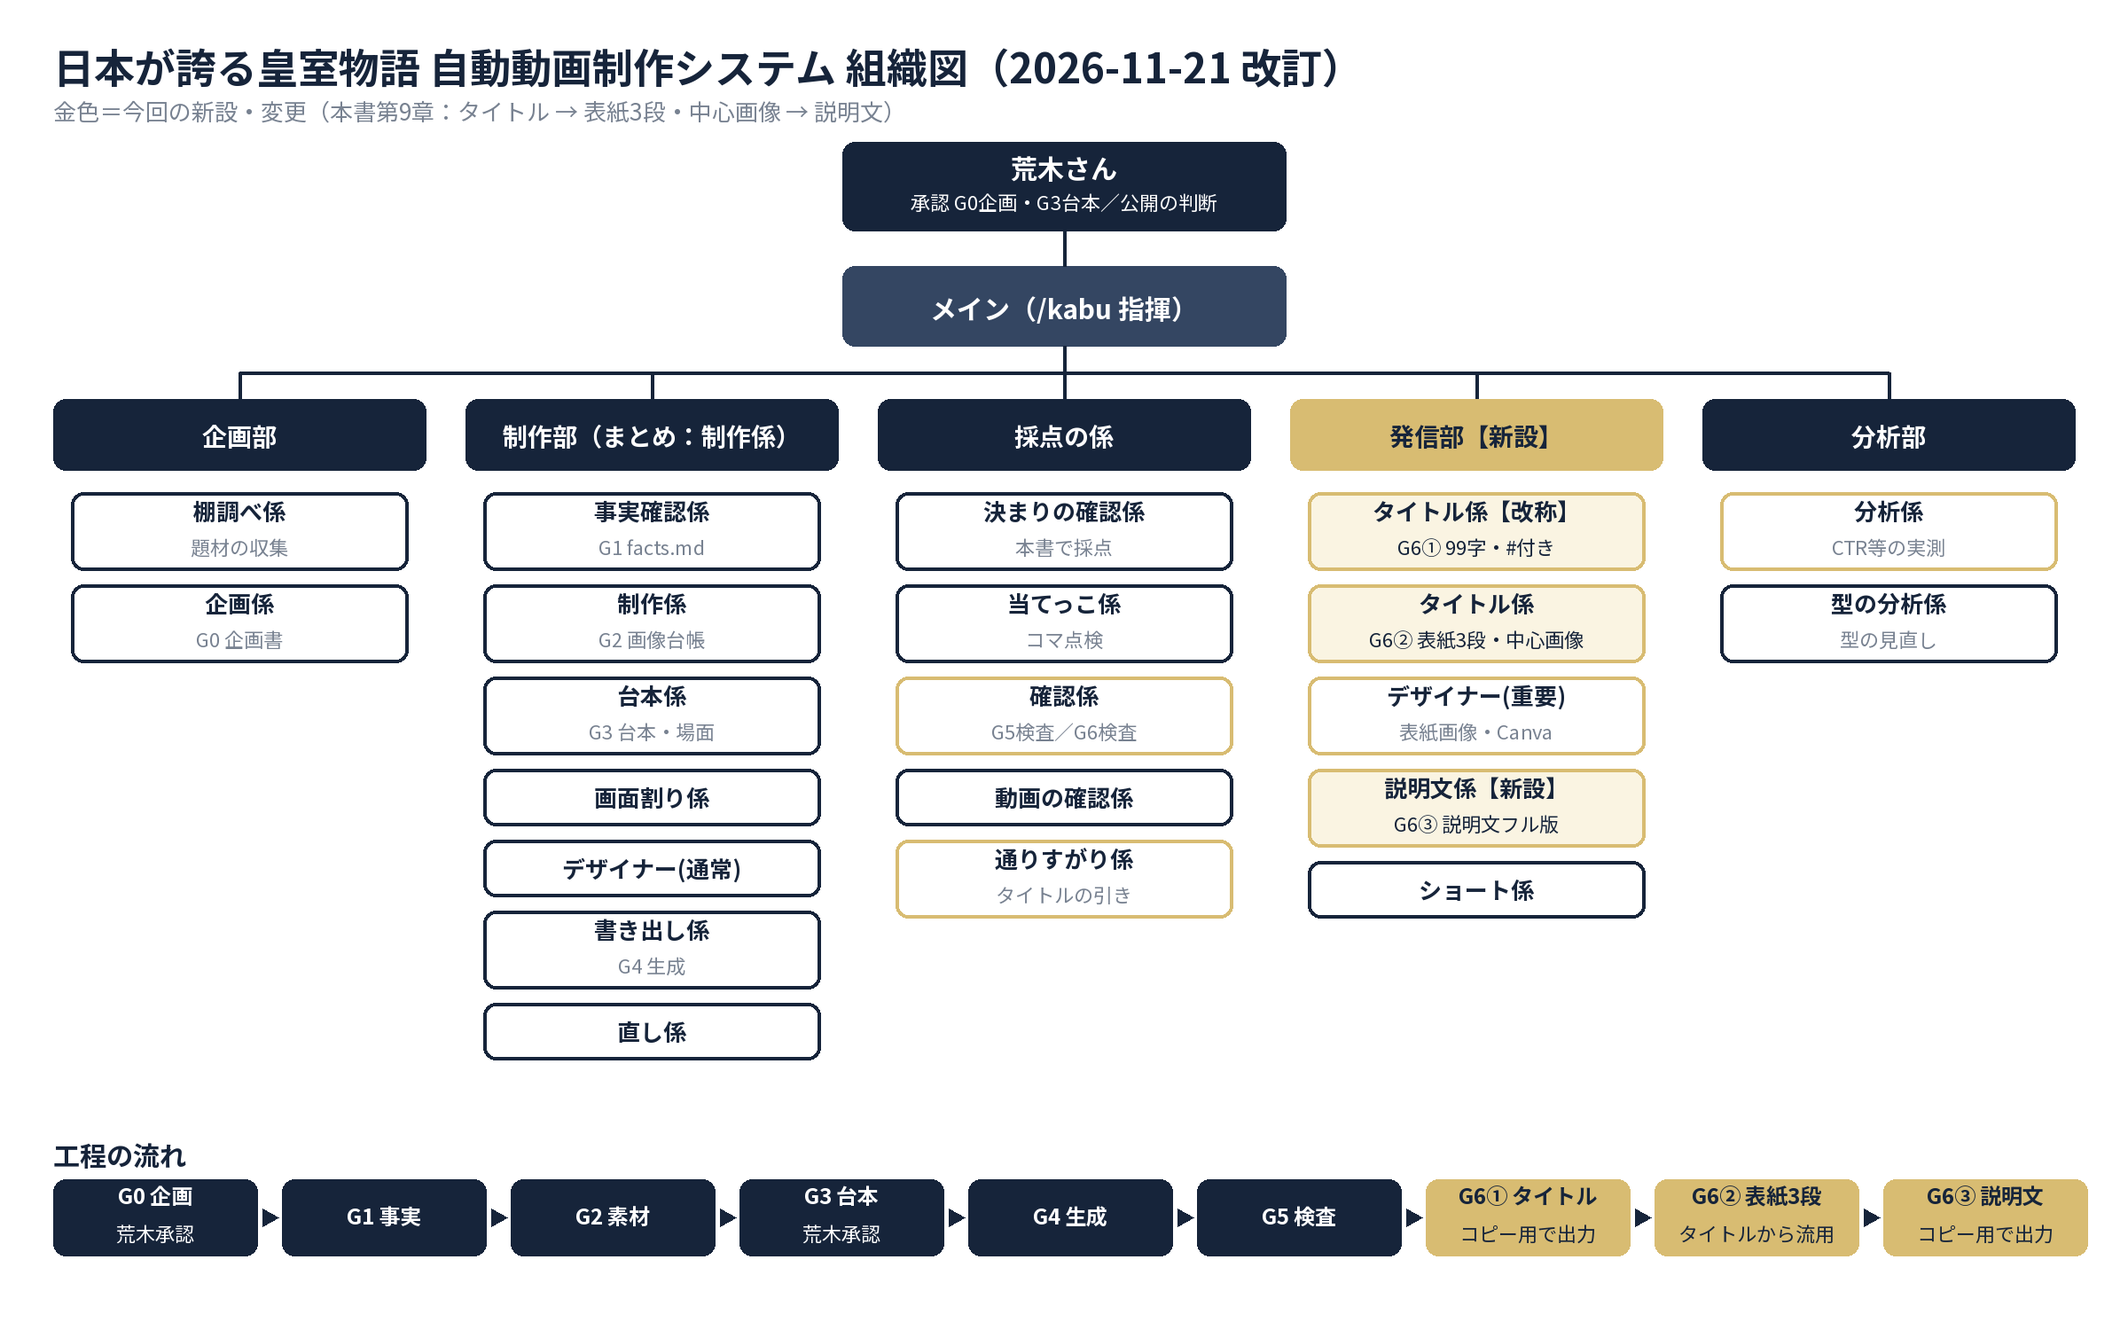
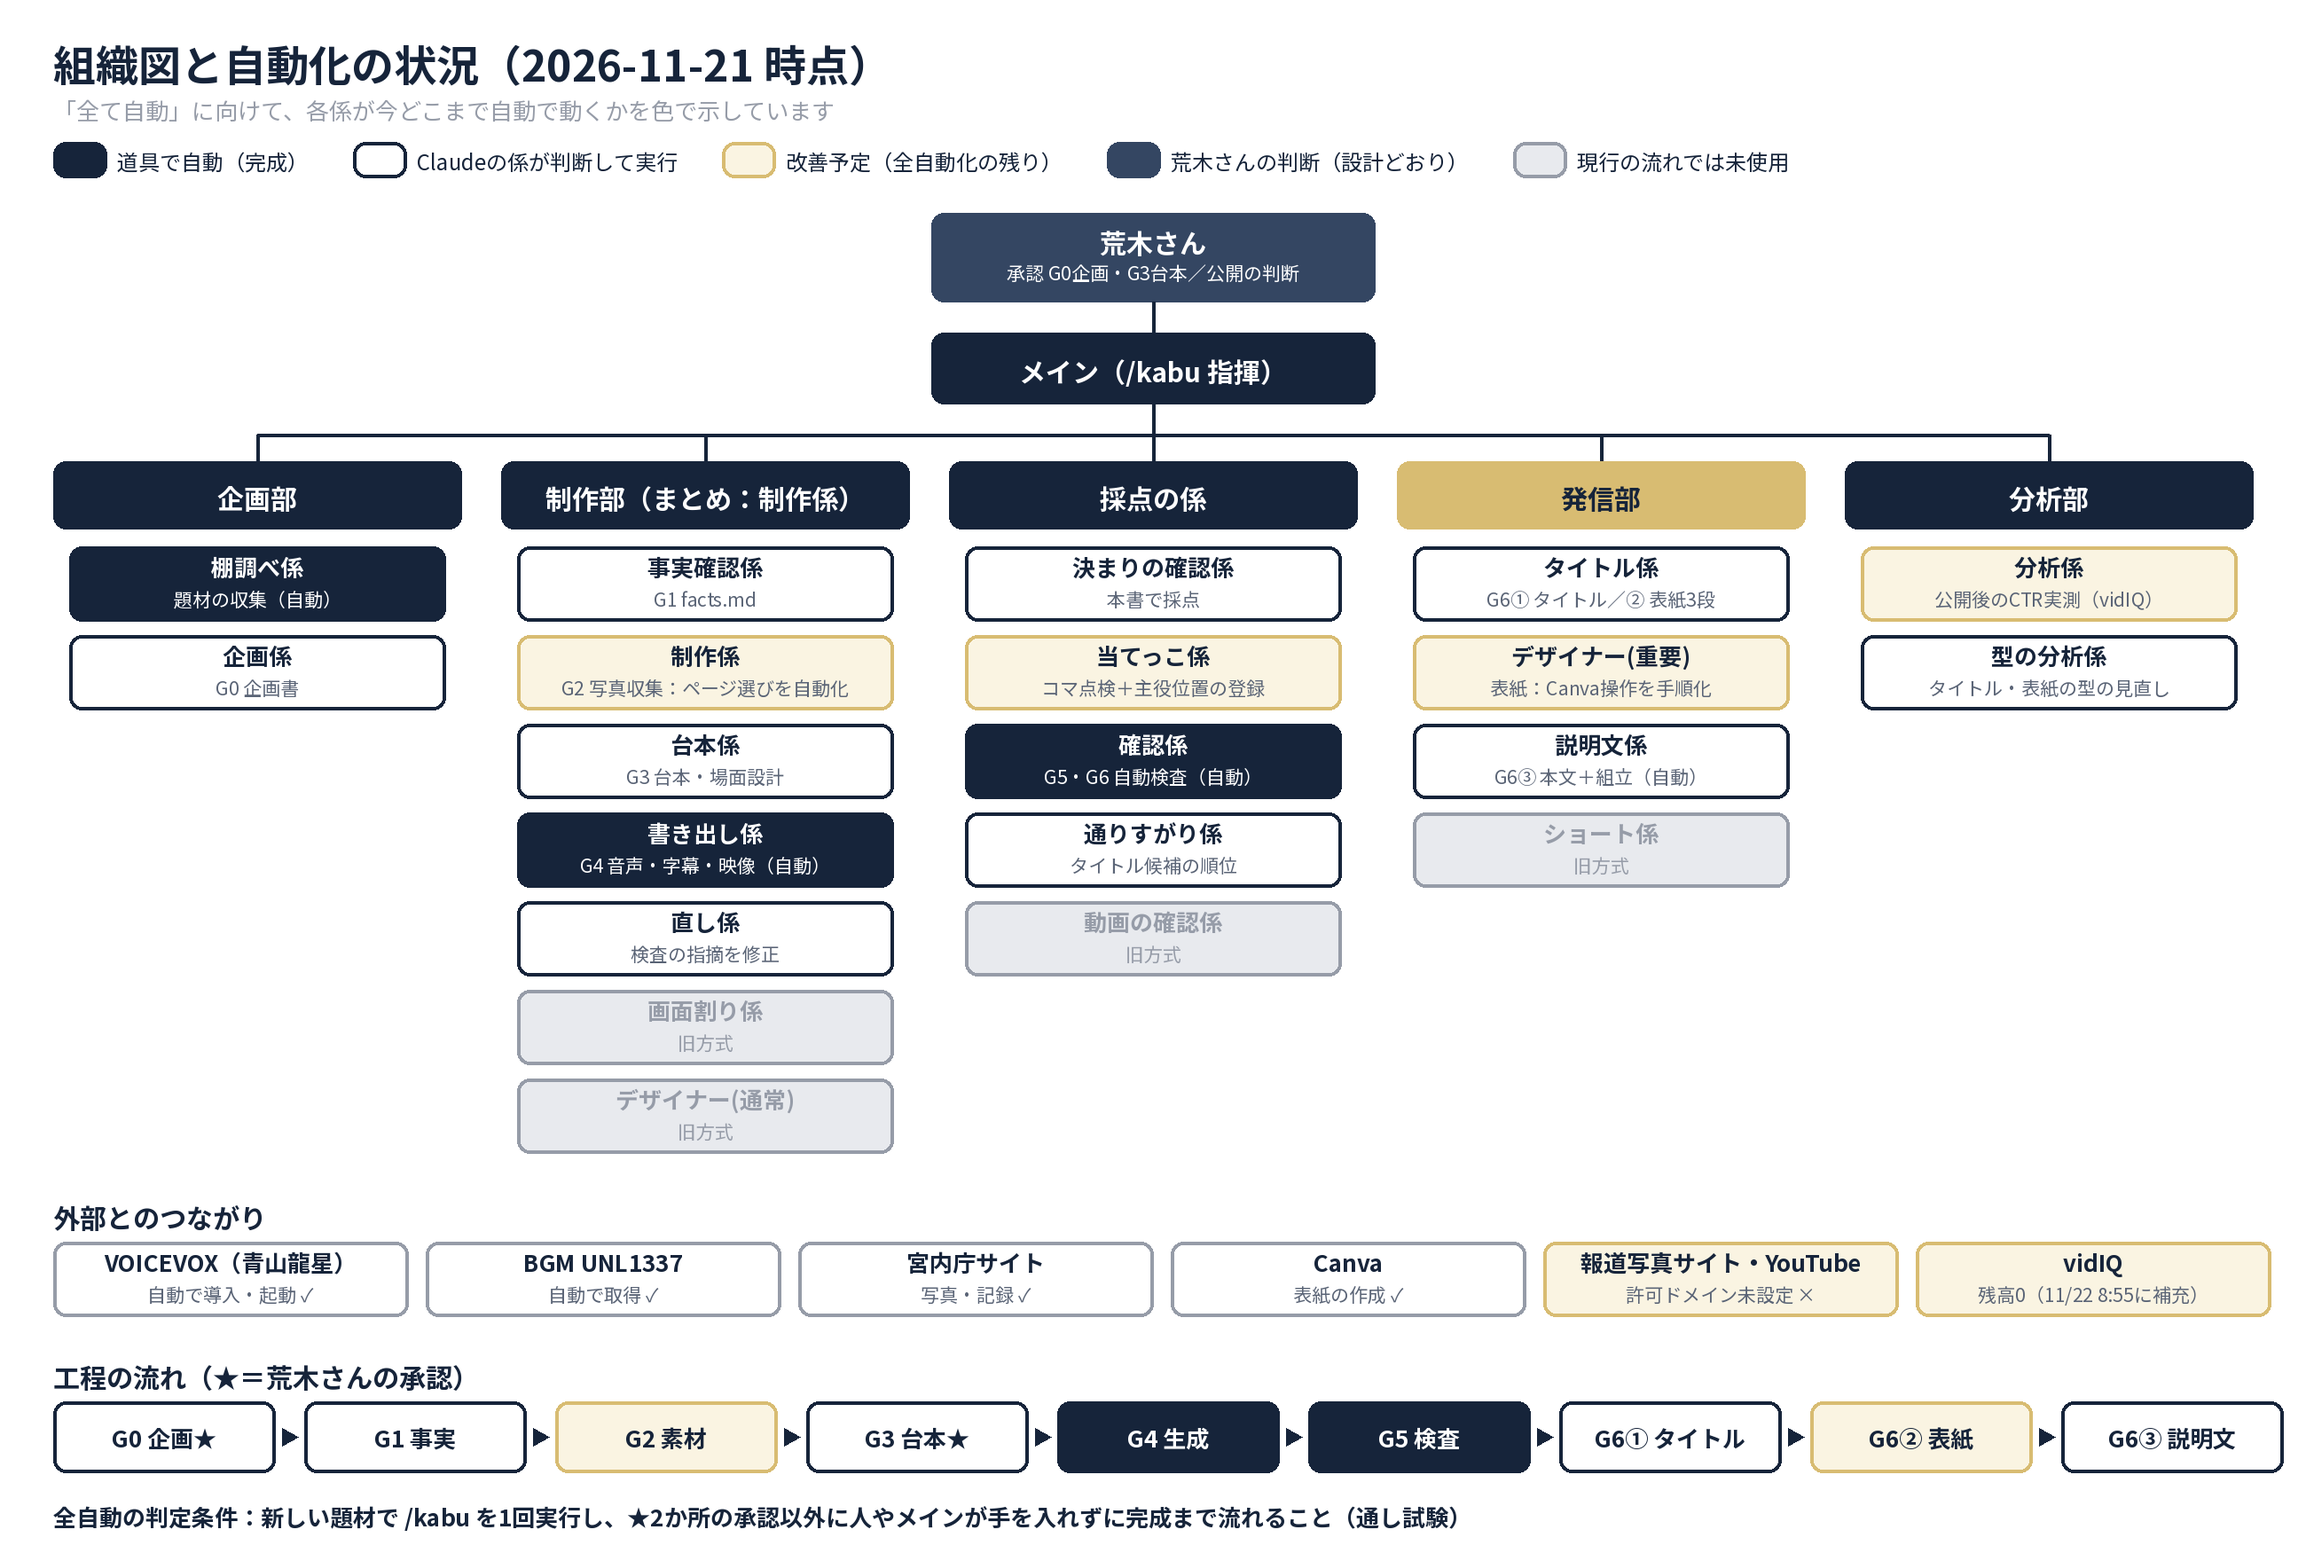
組織図を自動化の状況つきで描き直し(pipeline/org_chart.py → docs/org_chart.png)
Claude-Session: https://claude.ai/code/session_01BJaPieHBuTRAAQkfULpzEX

diff --git a/pipeline/org_chart.py b/pipeline/org_chart.py
@@ -1,0 +1,89 @@
+"""組織図と自動化の状況を docs/org_chart.png に描く。python -m pipeline.org_chart"""
+from PIL import Image, ImageDraw, ImageFont
+
+from .common import ROOT
+
+F = '/usr/local/share/fonts/noto-sans-jp/NotoSansJP-'
+fb = lambda s: ImageFont.truetype(F + 'Bold.ttf', s)
+fr = lambda s: ImageFont.truetype(F + 'Regular.ttf', s)
+NAVY, GOLD, WHITE, GRAY, LGRAY, CREAM, MID = (22, 36, 58), (216, 188, 114), (255, 255, 255), (150, 156, 168), (232, 234, 238), (250, 244, 226), (52, 70, 98)
+STYLE = {'tool': (NAVY, WHITE, None), 'agent': (WHITE, NAVY, NAVY), 'plan': (CREAM, NAVY, GOLD), 'idle': (LGRAY, GRAY, GRAY),
+         'human': (MID, WHITE, None), 'dept': (NAVY, WHITE, None), 'deptnew': (GOLD, NAVY, None), 'ext': (WHITE, NAVY, GRAY)}
+DEPTS = [
+    ('企画部', 'dept', [('棚調べ係', '題材の収集（自動）', 'tool'), ('企画係', 'G0 企画書', 'agent')]),
+    ('制作部（まとめ：制作係）', 'dept', [('事実確認係', 'G1 facts.md', 'agent'), ('制作係', 'G2 写真収集：ページ選びを自動化', 'plan'),
+                               ('台本係', 'G3 台本・場面設計', 'agent'), ('書き出し係', 'G4 音声・字幕・映像（自動）', 'tool'),
+                               ('直し係', '検査の指摘を修正', 'agent'), ('画面割り係', '旧方式', 'idle'), ('デザイナー(通常)', '旧方式', 'idle')]),
+    ('採点の係', 'dept', [('決まりの確認係', '本書で採点', 'agent'), ('当てっこ係', 'コマ点検＋主役位置の登録', 'plan'),
+                      ('確認係', 'G5・G6 自動検査（自動）', 'tool'), ('通りすがり係', 'タイトル候補の順位', 'agent'), ('動画の確認係', '旧方式', 'idle')]),
+    ('発信部', 'deptnew', [('タイトル係', 'G6① タイトル／② 表紙3段', 'agent'), ('デザイナー(重要)', '表紙：Canva操作を手順化', 'plan'),
+                        ('説明文係', 'G6③ 本文＋組立（自動）', 'agent'), ('ショート係', '旧方式', 'idle')]),
+    ('分析部', 'dept', [('分析係', '公開後のCTR実測（vidIQ）', 'plan'), ('型の分析係', 'タイトル・表紙の型の見直し', 'agent')]),
+]
+EXT = [('VOICEVOX（青山龍星）', '自動で導入・起動 ✓', 'ext'), ('BGM UNL1337', '自動で取得 ✓', 'ext'), ('宮内庁サイト', '写真・記録 ✓', 'ext'),
+       ('Canva', '表紙の作成 ✓', 'ext'), ('報道写真サイト・YouTube', '許可ドメイン未設定 ×', 'plan'), ('vidIQ', '残高0（11/22 8:55に補充）', 'plan')]
+FLOW = [('G0 企画★', 'agent'), ('G1 事実', 'agent'), ('G2 素材', 'plan'), ('G3 台本★', 'agent'), ('G4 生成', 'tool'), ('G5 検査', 'tool'),
+        ('G6① タイトル', 'agent'), ('G6② 表紙', 'plan'), ('G6③ 説明文', 'agent')]
+
+
+def draw(path=ROOT / 'docs' / 'org_chart.png', date='2026-11-21'):
+    W, H = 2600, 1760
+    im = Image.new('RGB', (W, H), WHITE)
+    d = ImageDraw.Draw(im)
+
+    def box(x, y, w, h, title, sub=None, style='agent'):
+        fill, fg, ol = STYLE[style]
+        d.rounded_rectangle([x, y, x + w, y + h], radius=14, fill=fill, outline=ol, width=4 if ol else 0)
+        f = fb(26 if style not in ('dept', 'deptnew', 'human') else 30)
+        ty = y + (h - (40 if sub else 0)) / 2 - 19
+        d.text((x + (w - d.textlength(title, font=f)) / 2, ty), title, fill=fg, font=f)
+        if sub:
+            f2 = fr(21)
+            col = fg if style in ('tool', 'human') else (GRAY if style == 'idle' else (90, 100, 118))
+            d.text((x + (w - d.textlength(sub, font=f2)) / 2, ty + 40), sub, fill=col, font=f2)
+
+    d.text((60, 36), f'組織図と自動化の状況（{date} 時点）', fill=NAVY, font=fb(48))
+    d.text((60, 104), '「全て自動」に向けて、各係が今どこまで自動で動くかを色で示しています', fill=GRAY, font=fr(26))
+    lx = 60
+    for st, label in [('tool', '道具で自動（完成）'), ('agent', 'Claudeの係が判断して実行'), ('plan', '改善予定（全自動化の残り）'),
+                      ('human', '荒木さんの判断（設計どおり）'), ('idle', '現行の流れでは未使用')]:
+        box(lx, 160, 60, 40, '', style=st)
+        d.text((lx + 72, 164), label, fill=NAVY, font=fr(24))
+        lx += 72 + d.textlength(label, font=fr(24)) + 50
+    box(1050, 240, 500, 100, '荒木さん', '承認 G0企画・G3台本／公開の判断', style='human')
+    box(1050, 375, 500, 80, 'メイン（/kabu 指揮）', style='dept')
+    d.line([1300, 340, 1300, 375], fill=NAVY, width=4)
+    n, colw, y0 = len(DEPTS), 460, 520
+    gap = (W - 120 - colw * n) / (n - 1)
+    d.line([60 + colw / 2, 490, W - 60 - colw / 2, 490], fill=NAVY, width=4)
+    d.line([1300, 455, 1300, 490], fill=NAVY, width=4)
+    for i, (name, st, members) in enumerate(DEPTS):
+        x = 60 + i * (colw + gap)
+        d.line([x + colw / 2, 490, x + colw / 2, y0], fill=NAVY, width=4)
+        box(x, y0, colw, 76, name, style=st)
+        y = y0 + 96
+        for m, sub, ms in members:
+            box(x + 18, y, colw - 36, 84, m, sub, style=ms)
+            y += 100
+    ey = 1400
+    d.text((60, ey - 50), '外部とのつながり', fill=NAVY, font=fb(30))
+    ex = 60
+    for t, s, st in EXT:
+        box(ex, ey, 400, 84, t, s, style=st)
+        ex += 420
+    fy = 1580
+    d.text((60, fy - 50), '工程の流れ（★＝荒木さんの承認）', fill=NAVY, font=fb(30))
+    sx, sw = 60, 250
+    for k, (s, st) in enumerate(FLOW):
+        box(sx, fy, sw, 80, s, style=st)
+        if k < len(FLOW) - 1:
+            d.polygon([(sx + sw + 8, fy + 30), (sx + sw + 26, fy + 40), (sx + sw + 8, fy + 50)], fill=NAVY)
+        sx += sw + 33
+    d.text((60, 1690), '全自動の判定条件：新しい題材で /kabu を1回実行し、★2か所の承認以外に人やメインが手を入れずに完成まで流れること（通し試験）',
+           fill=NAVY, font=fb(26))
+    im.save(path)
+    return path
+
+
+if __name__ == '__main__':
+    print(draw())
